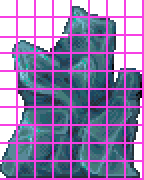
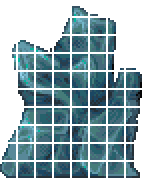
large chunk + new items

Changed region(s): [[0.0, 0.0, 1.0, 1.0]]

diff --git a/Content/Tiles/BigGlacialChunkMultitile.cs b/Content/Tiles/BigGlacialChunkMultitile.cs
@@ -1,0 +1,48 @@
+using System;
+using System.Collections.Generic;
+using System.Linq;
+using System.Text;
+using System.Threading.Tasks;
+using Terraria;
+using Terraria.ModLoader;
+using Microsoft.Xna.Framework;
+using Terraria.ObjectData;
+using Terraria.Localization;
+using Terraria.ID;
+using Terraria.Audio;
+using Insignia.Core.Common.Systems;
+namespace Insignia.Content.Tiles
+{
+    public class BigGlacialChunkMultitile : ModTile
+    {
+        public override void SetStaticDefaults()
+        {
+            Main.tileFrameImportant[Type] = true;
+            Main.tileNoAttach[Type] = true;
+            Main.tileCut[Type] = false;
+            Main.tileLavaDeath[Type] = true;    
+            DustType = DustID.Ice;
+            TileObjectData.newTile.CopyFrom(TileObjectData.Style2xX);
+            TileObjectData.newTile.Height = 10;
+            TileObjectData.newTile.Width = 8;
+            TileObjectData.newTile.CoordinateHeights = new int[] { 16, 16, 16, 16, 16, 16, 16, 16, 16, 16 };
+            TileObjectData.addTile(Type);
+            
+            LocalizedText name = CreateMapEntryName();
+            AddMapEntry(new Color(80, 150, 220), name);
+        }
+
+        
+        public override void NumDust(int i, int j, bool fail, ref int num)
+        {
+            num = fail ? 1 : 3;
+        }
+        public override void KillMultiTile(int i, int j, int frameX, int frameY)
+        {
+            if (Main.netMode != NetmodeID.Server)
+            {
+                SoundEngine.PlaySound(SoundSystem.GlacialChunkKillSound with { Volume = 1.5f, Pitch = -0.2f });
+            }
+        }
+    }
+}

diff --git a/Content/Projectiles/Glacial/TundraThrowingKnifeProjectile.cs b/Content/Projectiles/Glacial/TundraThrowingKnifeProjectile.cs
@@ -1,0 +1,55 @@
+using Terraria;
+using Terraria.Audio;
+using Terraria.ID;
+using Terraria.ModLoader;
+
+namespace Insignia.Content.Projectiles.Glacial
+{
+    public class TundraThrowingKnifeProjectile : ModProjectile
+    {
+        public override void SetStaticDefaults()
+        {
+
+        }
+
+        public override void SetDefaults()
+        {
+            Projectile.width = 6;
+            Projectile.height = 14;
+
+            Projectile.aiStyle = 2;
+            Projectile.DamageType = DamageClass.Ranged;
+            Projectile.friendly = true;
+            Projectile.hostile = false;
+            Projectile.ignoreWater = true;
+            Projectile.light = 0.5f;
+            Projectile.tileCollide = true;
+            Projectile.penetrate = -2;
+            Projectile.timeLeft = 320;
+            Projectile.CloneDefaults(ProjectileID.ThrowingKnife);
+            AIType = ProjectileID.ThrowingKnife;
+        }
+        public override void AI()
+        {
+
+            
+            Lighting.AddLight(Projectile.position, r: 0.1f, g: 0.3f, b: 0.9f);
+
+        }
+        public override void Kill(int timeleft)
+
+        {
+
+
+            for (int i = 0; i < 10; i++)
+                Dust.NewDust(Projectile.position, Projectile.width, Projectile.height, DustID.Ice, 0f, 0f, 0, default, 1f);
+            SoundEngine.PlaySound(SoundID.Item50, Projectile.position);
+
+        }
+        public override void OnHitNPC(NPC target, NPC.HitInfo hit, int damageDone)
+
+        {
+            target.AddBuff(BuffID.Frostburn, 180);
+        }
+    }
+}

diff --git a/Content/Items/Weapons/Sets/Glacial/TundraThrowingKnife.cs b/Content/Items/Weapons/Sets/Glacial/TundraThrowingKnife.cs
@@ -1,0 +1,50 @@
+using Insignia.Content.Projectiles.Glacial;
+using Terraria;
+using Terraria.GameContent.Creative;
+using Terraria.ID;
+using Terraria.ModLoader;
+
+namespace Insignia.Content.Items.Weapons.Sets.Glacial
+{
+    public class TundraThrowingKnife : ModItem
+    {
+        public override void SetStaticDefaults()
+        {
+            
+
+            CreativeItemSacrificesCatalog.Instance.SacrificeCountNeededByItemId[Type] = 100;
+
+        }
+
+        public override void SetDefaults()
+        {
+            Item.CloneDefaults(ItemID.ThrowingKnife);
+            Item.damage = 13;
+            Item.DamageType = DamageClass.Ranged;
+            Item.width = 10;
+            Item.height = 24;
+            Item.useTime = 15;
+            Item.useAnimation = 15;
+            Item.useStyle = ItemUseStyleID.Swing;
+            Item.knockBack = 2;
+            Item.value = Item.buyPrice(copper: 80);
+            Item.rare = ItemRarityID.Blue;
+            Item.UseSound = SoundID.Item1;
+            Item.autoReuse = true;
+            Item.maxStack = 999;
+            Item.shoot = ModContent.ProjectileType<TundraThrowingKnifeProjectile>();
+            Item.noMelee = true;
+
+        }
+
+        public override void AddRecipes()
+        {
+            Recipe recipe = CreateRecipe(50);
+            recipe.AddIngredient(ItemID.IceBlock, 15);
+            recipe.AddIngredient(ItemID.ThrowingKnife, 50);
+            recipe.AddTile(TileID.WorkBenches);
+            recipe.Register();
+
+        }
+    }
+}

diff --git a/Content/Items/Misc/GlacialCrate.cs b/Content/Items/Misc/GlacialCrate.cs
@@ -19,7 +19,7 @@ namespace Insignia.Content.Items.Misc
 
         public override void SetDefaults()
         {
-         Item.DefaultToPlaceableTile(ModContent.TileType<Tiles.GlacialCrateTile>());
+         Item.DefaultToPlaceableTile(ModContent.TileType<Tiles.BigGlacialChunkMultitile>());
             Item.width = 12; //The hitbox dimensions are intentionally smaller so that it looks nicer when fished up on a bobber
             Item.height = 12;
             Item.maxStack = 99;

diff --git a/Insignia.cs b/Insignia.cs
@@ -18,7 +18,7 @@ namespace Insignia
         public const string AssetPath = $"{nameof(Insignia)}/Assets/";
 
         public static float ModTime { get; internal set; }
-        public static object MessageType { get; internal set; }
+        public static object MessageType { get; internal set; } 
 
         internal static object GetLegacySoundSlot(object custom, string v)
         {
